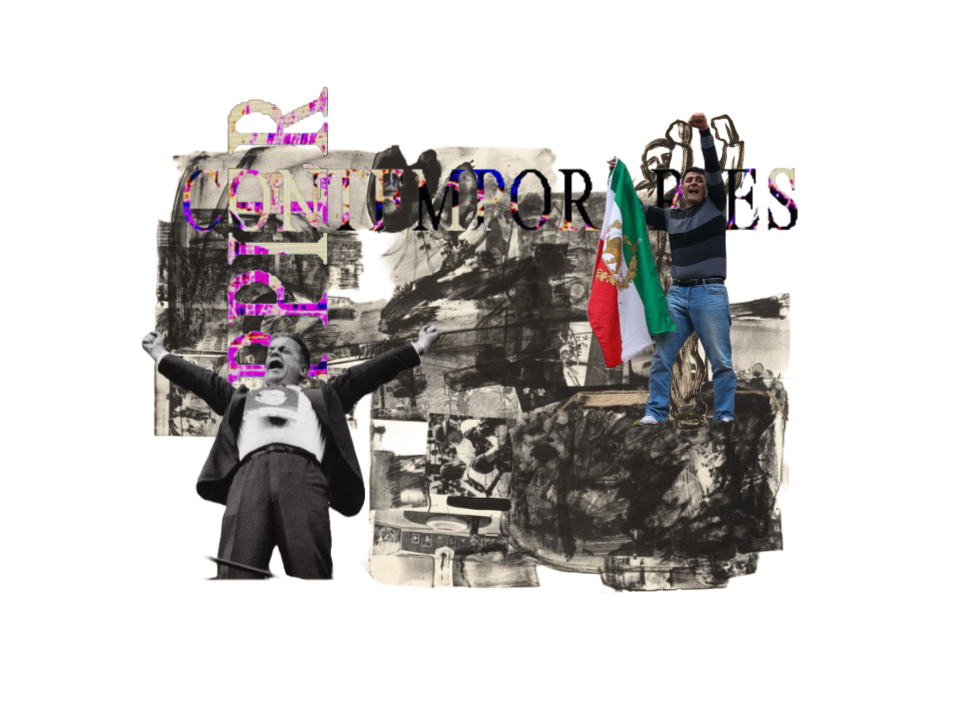
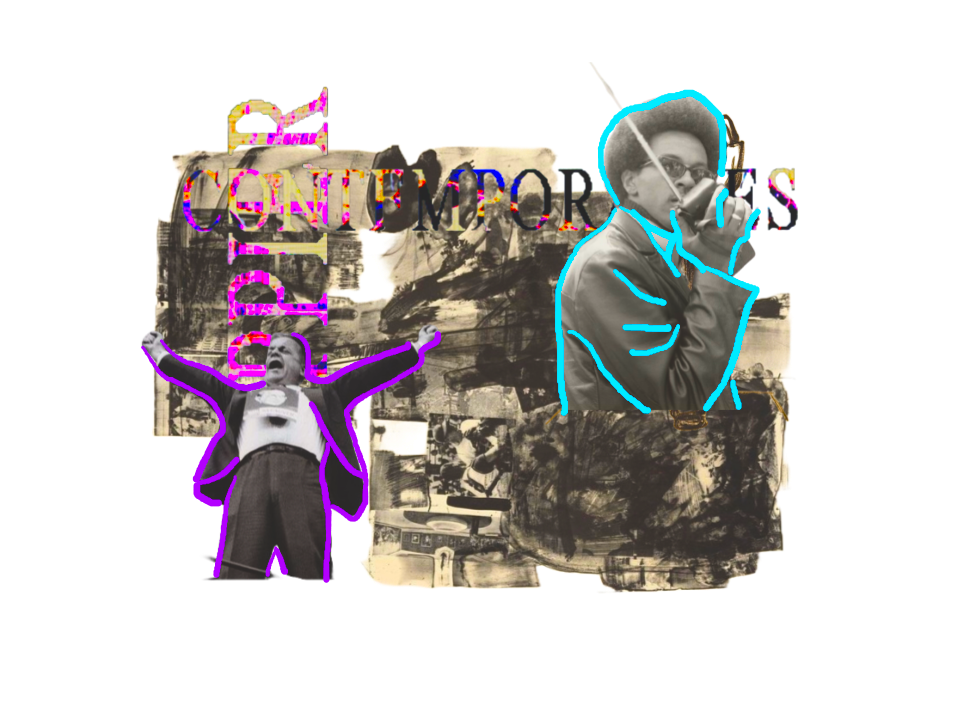
new

diff --git a/css/style.css b/css/style.css
@@ -100,6 +100,16 @@ header h2 {
   opacity: 1;                /* do NOT dim the video */
 }
 
+.intro--video .section-video-2 {
+  position: absolute;
+  inset: 0;
+  width: 100%;
+  height: 100%;
+  object-fit: cover;
+  z-index: 0;
+  opacity: 1;                /* do NOT dim the video */
+}
+
 /* dim overlay */
 .intro--video::after {
   content: "";

diff --git a/index.html b/index.html
@@ -124,6 +124,8 @@
   <div class="bio-row">
     <img src="graphics/arch.png" alt="" class="bio-arch">
     <img src="graphics/newvibe.png" alt="" class="bio-vibe">
+
+
     <div class="bio-text">
     </div>
   </div>
